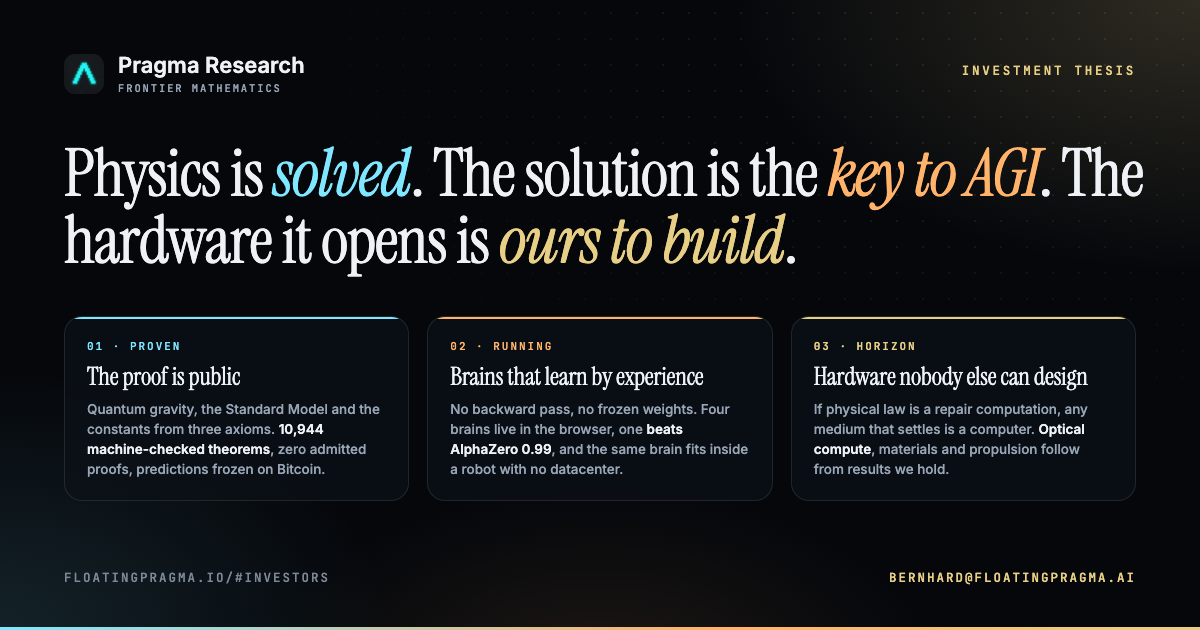
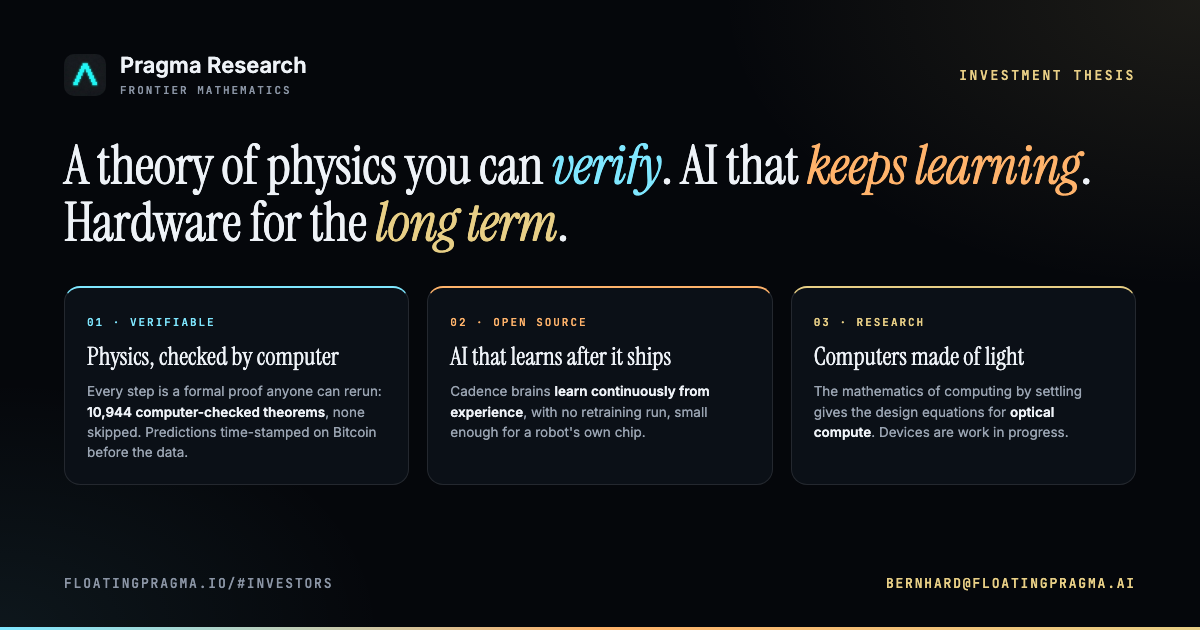
Investor section rewritten in plain language: verifiable physics, AI that learns after it ships with a comparison table, hardware as long-term research, next stage spelled out; thesis card without examples

diff --git a/index.html b/index.html
@@ -202,30 +202,45 @@
       <div class="shell">
         <div class="section-head reveal">
           <span class="eyebrow">For investors</span>
-          <h2>Why this is the <em class="t-gold">largest bet available.</em></h2>
-          <p>Every unification in physics became the technology of its century. Maxwell gave us radio, quantum mechanics gave us the transistor, relativity keeps satellites on time. We hold the mathematics that joins them, checked by machine, with the first application running today.</p>
+          <h2>A very large upside, <em class="t-gold">and a cheap way to check it.</em></h2>
+          <p>Every time physics was unified, a new industry followed. Maxwell's equations led to radio, quantum mechanics to the transistor, relativity to satellite navigation. We have a theory that unifies physics, and it has produced something usable: a new kind of AI that keeps learning after it is deployed. If the theory holds, the upside is measured in industries. Checking it does not depend on trusting us: the proofs run on a computer and the AI library is public.</p>
         </div>
         <div class="thesis three">
           <div class="spot reveal">
-            <h3>Physics is solved, and the proof is public.</h3>
-            <p>Physics proposals are usually judged by reputation. Ours is judged by a proof kernel. Anyone can clone the repository, run the checker and confirm every theorem. Nobody else holds a machine-checked route from three axioms to the Standard Model, to spacetime and to the constants.</p>
-            <p class="proof"><b>Evidence</b> &middot; 10,944 machine-checked theorems, zero admitted proofs, predictions frozen on Bitcoin</p>
+            <h3>A theory of physics anyone can verify.</h3>
+            <p>New physics theories are usually debated by experts for decades before anyone knows whether they hold. We wrote every step of ours as a formal proof in Lean, a proof checker mathematicians use for exactly this purpose. It works like a compiler for mathematics: if any step is wrong or missing, the check fails. Anyone can download the proofs and rerun the check in a few hours.</p>
+            <p>The proofs are public and the flagship paper is published as a preprint. Peer review and acceptance by the wider scientific community are work in progress. The theory also makes predictions that future measurements can confirm or break.</p>
+            <p class="proof"><b>Evidence</b> &middot; 10,944 computer-checked theorems, none of them skipped or taken on faith. The first predictions were published before the measurements and time-stamped on the Bitcoin blockchain, so nobody, including us, can change them afterwards</p>
           </div>
           <div class="spot reveal">
-            <h3>The same solution is the key to AGI.</h3>
-            <p>The process that generates the universe generates thoughts. Transformers are trained once, frozen and replayed behind an API. Brains learn while they live. Cadence builds brains the second way, small enough to live inside a robot and learn its job on the job. The library is open, which is how a foundation gets adopted. The competent brains and the cortex designs behind them are ours.</p>
-            <p class="proof"><b>Evidence</b> &middot; the open-source Cadence library: brains that learn from one stream of experience, with no replay and no backward pass</p>
+            <h3>AI that keeps learning after it ships.</h3>
+            <p>Today's AI models, such as ChatGPT, learn once. A training run in a datacenter costs months and very large sums, then the model is frozen and served from the cloud. It learns nothing from its users, and teaching it something new means another training run. General intelligence means handling situations nobody prepared for, which a system that cannot learn after release is unable to do.</p>
+            <p>Cadence brains learn continuously from their own experience, the way animals do. Each connection updates from local activity, so there is no separate training run, and a brain is small enough to run on the chip inside a robot. A robot can learn a new task on the job without forgetting the old ones.</p>
+            <p>The design came out of our physics, and it can be judged without the physics. The core library is open source so developers can adopt and test it. The brain designs we build on top of it for specific jobs, such as robot control, are proprietary.</p>
+            <p class="proof"><b>Evidence</b> &middot; the open-source Cadence library on GitHub: brains that learn from one continuous stream of experience, with no retraining</p>
           </div>
           <div class="spot reveal">
-            <h3>Hardware nobody else can design.</h3>
-            <p>Our mathematics states which physical media compute by settling and what their equations are. Optical compute that runs a whole brain as a light field, materials designed from the order they settle into, and eventually propulsion, all follow from results we hold and others do not.</p>
-            <p class="proof"><b>Stage</b> &middot; horizon. The physics is proven, the devices are work in progress</p>
+            <h3>Computers made of light. Long term.</h3>
+            <p>Some physical systems, such as light passing through optics, naturally settle into a stable state. If a problem is set up so that the stable state is the answer, the physics performs the computation, without the energy cost of shuffling numbers through a chip. Cadence brains compute exactly this way: they settle into an answer.</p>
+            <p>Our mathematics describes computation by settling, so it gives the design equations for such hardware. The first target is an optical computer that runs a Cadence brain as a light field. New materials and, much further out, propulsion are long-range research directions.</p>
+            <p class="proof"><b>Stage</b> &middot; research. The mathematics exists, no device has been built. Hardware is the long-term part of the company</p>
           </div>
+        </div>
+        <div class="table-wrap reveal" style="margin-top:14px">
+          <table>
+            <thead><tr><th></th><th>Today's AI models</th><th class="hl">Cadence brains</th></tr></thead>
+            <tbody>
+              <tr><th>When it learns</th><td>Once, before release. Frozen afterwards</td><td class="hl">Continuously, for as long as it runs</td></tr>
+              <tr><th>Teaching it something new</th><td>A new training run in a datacenter</td><td class="hl">Experience it on the job</td></tr>
+              <tr><th>Where it runs</th><td>Cloud servers, reached over the network</td><td class="hl">On the device itself, such as a robot's own chip</td></tr>
+              <tr><th>A new task</th><td>Retraining can overwrite what it knew</td><td class="hl">Stored alongside the old tasks</td></tr>
+            </tbody>
+          </table>
         </div>
         <div class="band gold reveal" style="margin-top:14px">
           <div>
             <h2>Back the <em class="t-gold">foundation.</em></h2>
-            <p>The next stage scales the brains onto GPUs and onto light, and turns the physics into devices. If you fund frontier science, this is the conversation to have.</p>
+            <p>The next stage has three parts. Scale Cadence brains from laptop size to GPU clusters and show they keep improving with size and experience. Put a brain on a physical robot that learns its job while working. Design a first optical computing prototype from the mathematics. If you fund frontier science, this is the conversation to have.</p>
           </div>
           <div class="actions">
             <a class="btn btn-gold" href="mailto:bernhard@floatingpragma.ai?subject=Investing%20in%20Pragma%20Research">Email Bernhard <span class="arr">&rarr;</span></a>
